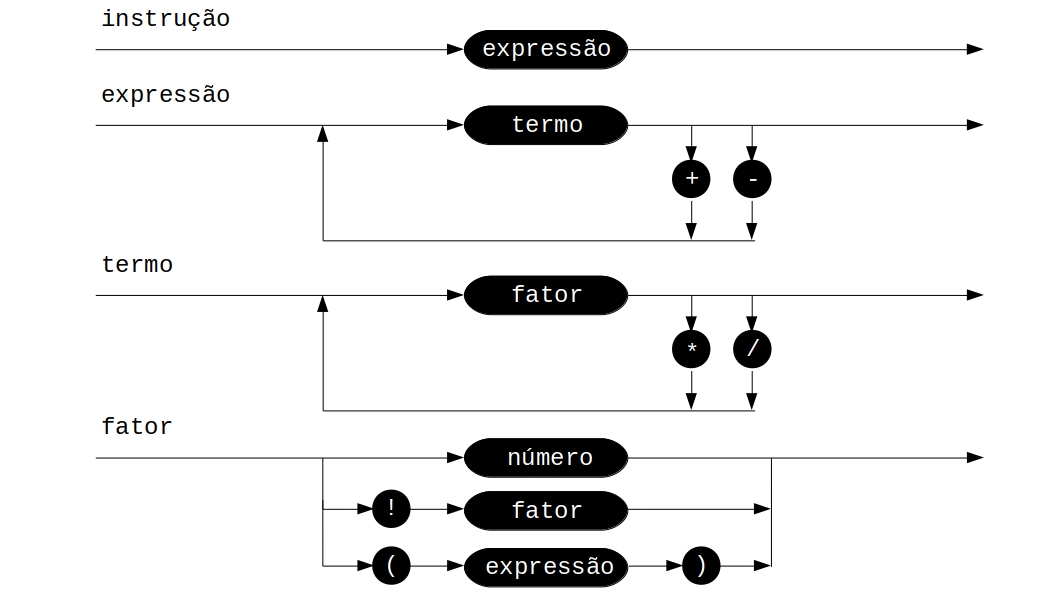
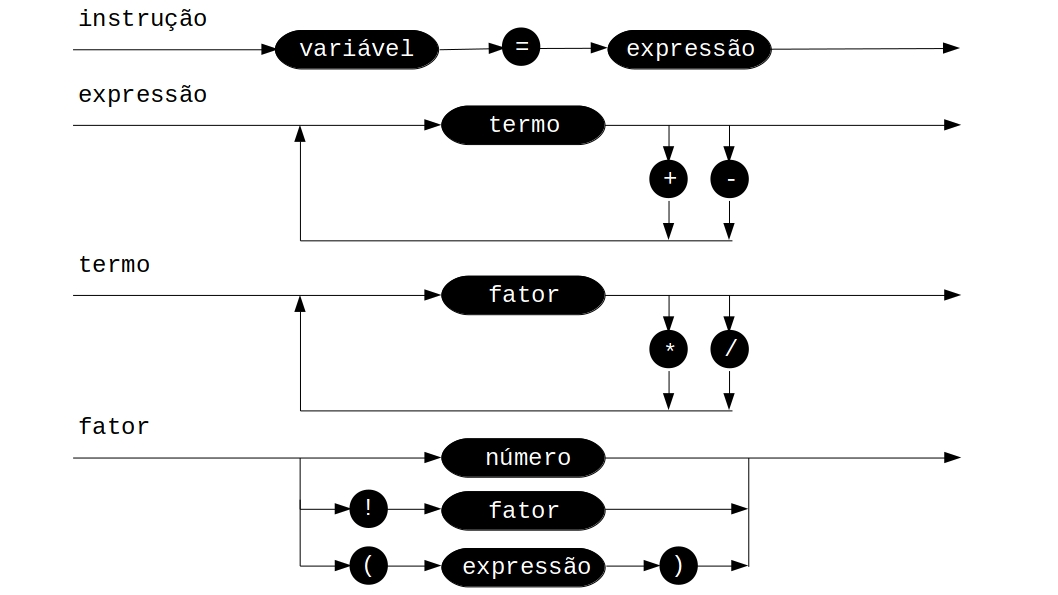
doc completa

diff --git a/lib/operacoes.c b/lib/operacoes.c
@@ -9,6 +9,7 @@ char* subtrair (char a[], char b[], char boolIGNORELFZEROS);
 char* completaMenor (char a[], char b[], char* menor);
 char* multiplica (char a[], char b[]);
 char* divisaoPos (char a[], char D[], char boolMOD);
+int strCmpNum (char x[], char b[]);
 char* fatorial (char a[]);
 int strIsDigit (char a[]);
 int fatorial_multiplicador (int a, char fat[], int limit);
@@ -18,7 +19,7 @@ int inverte (char a[]); /* strrev (apenas para Janelas OS) */
 int maior (int a, int b);
 int menor (int a, int b);
 
-/*
+
 int main (void)
 {
     char a[MAX];
@@ -33,7 +34,7 @@ int main (void)
     puts (c);
     return 0;
 }
-*/
+
 
 int inverte (char a[])
 {
@@ -315,16 +316,19 @@ char* divisaoPos (char a[], char D[], char boolMOD)
     MALLOC (R, 1);
     MALLOC (Q, tn-1);
     *R = 0;
-    for (i = 0; i < tn-1; i++)
+    for (i = 0; i <= tn-1; i++)
     {
         k = 0;
-        if (td+j <= tn-1)
-            tmp = N[td+j];
-        N[td+j] = '\0';
-        if (fl)
-            strcat (lnSig, &N[td+j+1]);
+        if (td+j <= tn-1) tmp = N[td+j];
         while (*N == '0') N++;
-        while (strcmp (N, D) >= 0)
+        N[td+(j%2)] = '\0';
+        if (fl)
+        {
+            strcpy (lnSig, &a[j+1]);
+            fl = 0;
+        }
+        /*while (*N == '0') N++;*/
+        while (strCmpNum (N, D))
         {
             N = subtrair (N, D, 0);
             k++;
@@ -332,9 +336,8 @@ char* divisaoPos (char a[], char D[], char boolMOD)
         }
         N[td+j] = tmp;
         N[td+j+1] = '\0';
-        if (i+1 < tn-1)
-            strcat (N, lnSig);
-        Q[j] = k + '0';
+        if (i+1 < tn-1) strcat (N, lnSig);
+        if (!strCmpNum (N, D) || fl) Q[j] = k + '0';   
         j++;
     }
     Q[j] = '\0';
@@ -349,6 +352,26 @@ char* divisaoPos (char a[], char D[], char boolMOD)
     free (N);
     return Q;
 }
+
+int strCmpNum (char x[], char b[])
+{
+    char* a = x;
+    while (*a == '0') a++;
+    int ta = strlen (a), tb = strlen (b);
+    if (ta > tb) return 1;
+    if (ta == tb)
+    {
+        int i;
+        for (i = 0; a[i] != '\0'; i++)
+        {
+            if (a[i] > b[i]) return 1;
+            else if (a[i] < b[i]) return 0;
+        }
+    }
+    else return 0;
+    return 1;
+}
+
 
 char* fatorial (char in[])
 {
@@ -368,15 +391,15 @@ char* fatorial (char in[])
     }
     i=0;
     *fat = 1;
-    int num = 0;
+    LLI num = 0;
     inverte (a);
     char2int (a);
     while (i<tamA)
     {
-        num += (int) a[i] * pow (10, i);
+        num += (LLI) a[i] * pow (10, i);
         i++;
     }
-    if (num > 400) return NULL;
+    if (num > 400 || num < 0) return NULL;
     for (i=2; i<=num; i++)
         k = fatorial_multiplicador (i, fat, k);
     int2char (fat, k+1);